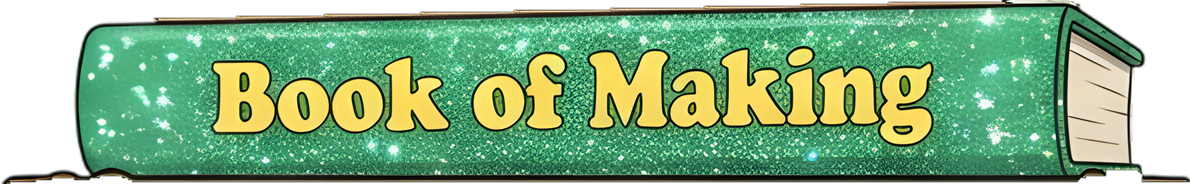
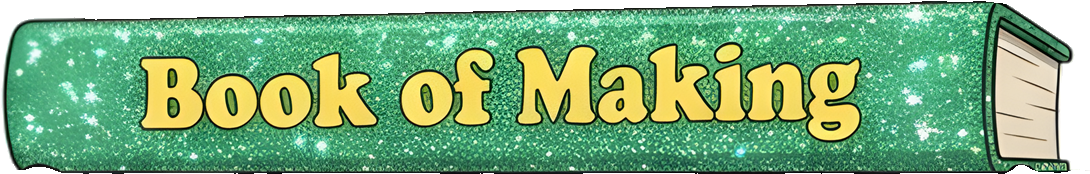
Book stack re-cut cleanly (a watershed along the outlines between books); fur covers show no edge strip as they swing; the notebook's page flags measured too; a book closes at a click anywhere outside it except on a control; My Shop lists days as "Day N" with "Day N · weekday · month" over the revie

diff --git a/js/computer.js b/js/computer.js
@@ -36,13 +36,13 @@ function focusApp(app){pcOpen=[...pcOpen.filter(a=>a!==app),app];pcOpen.forEach(
 function minApp(app){const win=winOf(app);pcMin.add(app);renderPCBar();zoom(win,tbOf(app),false,()=>{if(pcMin.has(app))win.hidden=true})}
 function closeApp(app){const win=winOf(app);pcOpen=pcOpen.filter(a=>a!==app);pcMin.delete(app);renderPCBar();
   zoom(win,iconOf(app),false,()=>{if(!pcOpen.includes(app)){win.hidden=true;win.classList.remove('max');win.style.left=win.style.top=''}})}
-/* A day as the computer shows it: weekday, month and the day's number, e.g. "Tue · Dec · Day 9" (a game year is 72 days,
-   about six to a month, so the days have no date of the month). */
-const dayLabel=d=>{const c=D.cal[d-1];return c?`${c.weekday.slice(0,3)} · ${c.month.slice(0,3)} · Day ${d}`:`Day ${d}`};
+/* A day in My Shop's reviews: "Day 9 · Tuesday · December" over the list (a game year is 72 days, about six to a month, so
+   the days have no date of the month); the list of days on the left just says "Day 9". */
+const dayLabel=d=>{const c=D.cal[d-1];return c?`Day ${d} · ${c.weekday} · ${c.month}`:`Day ${d}`};
 /* The taskbar: the open apps only (pressed: the one in front), and the date in the corner. */
 function renderPCBar(){const T=today(),fest=[T.sabbat,T.named,T.event].filter(Boolean).join(', '),top=topApp();
-  $('#pcDate').innerHTML=`<b>${esc(dayLabel(S.day))}</b>${fest?`<small class="tb-fest">${esc(fest)}</small>`:''}`;
-  $('#pcDate').title=`${dayLabel(S.day)}${fest?', '+fest:''}`;
+  $('#pcDate').innerHTML=`<b>Day ${S.day}</b><small>${esc(T.weekday)}${fest?` · <span class="tb-fest">${esc(fest)}</span>`:''}</small>`;
+  $('#pcDate').title=`Day ${S.day}, ${T.weekday}${fest?', '+fest:''}`;
   $('#tbApps').innerHTML=pcOpen.map(a=>`<button class="tb-app" data-tb="${a}" aria-pressed="${a===top}" title="${PC_NAMES[a]}" aria-label="${PC_NAMES[a]}">${PC_ICONS[a]}</button>`).join('');
   [['#mailIconBadge',unreadLetters()],['#shopIconBadge',newReviews()]].forEach(([id,n])=>{const b=$(id);b.hidden=!n;b.textContent=n})}
 /* Windows move by their title bar, and a double-click on it maximises them. */
@@ -85,7 +85,7 @@ function renderShop(){const rt=rating(),days=[...new Set(S.reviews.map(r=>r.day)
       <div class="sh-brand"><img src="${ASSETS.logo}" alt=""><b>The Loveborne Witch’s Emporium</b></div>
       <div class="sh-rating"><div class="sh-big">${rt.toFixed(1)}</div><div class="sh-stars">${stars(Math.round(rt))}</div>
         <small class="muted">${S.hist.length?`Average of the last ${S.hist.length} of up to 20 reviews`:'No reviews yet'}</small></div>
-      <nav class="sh-days" aria-label="Days">${[0,...days].map(d=>`<button data-rday="${d}" aria-pressed="${d===reviewDay}">${d?esc(dayLabel(d)):'All days'}<span class="muted">${count(d)}</span></button>`).join('')}</nav>
+      <nav class="sh-days" aria-label="Days">${[0,...days].map(d=>`<button data-rday="${d}" aria-pressed="${d===reviewDay}">${d?`Day ${d}`:'All days'}<span class="muted">${count(d)}</span></button>`).join('')}</nav>
     </aside>
     <div class="sh-list">${shown||'<p class="muted sh-empty">No reviews yet. Customers leave their reviews when the shop closes for the night.</p>'}</div>`}
 

diff --git a/js/scene.js b/js/scene.js
@@ -6,10 +6,11 @@ const newReviews=()=>Math.max(0,S.reviews.length-S.reviewsSeen);
 function renderBadge(){const n=unreadLetters()+newReviews(),bd=$('#booksBadge');bd.hidden=!n;bd.textContent=n;$('#pcBtn').setAttribute('aria-label',n?`Computer: ${n} new`:'Computer')}
 /* ---------- the shop scene: every counter object is a button ---------- */
 
-/* The book stack: each book cut from the stack picture along its drawn outline (659x672): left, top, width in that frame. */
-const STACK=[['Recipe Book','book-recipe-book',78,0,508],['Book of Making','book-book-of-making',35,75,595],['Grimoire of Craft','book-grimoire-of-craft',6,155,653],
-  ['Almanac of Sky & Seasons','book-almanac-of-sky-seasons',0,235,659],['Tarot Companion','book-tarot-companion',6,320,616],['Gentle Bestiary','book-gentle-bestiary',20,380,629],
-  ['Crystal Almanac','book-crystal-almanac',19,433,637],['Herbiary','book-herbiary',19,494,631]];
+/* The book stack: each book cut from the stack picture along its drawn outline (a watershed from points inside each book,
+   so every cut follows the darkest line between two books) (659x672): left, top, width in that frame. */
+const STACK=[['Recipe Book','book-recipe-book',79,0,528],['Book of Making','book-book-of-making',71,77,545],['Grimoire of Craft','book-grimoire-of-craft',29,159,603],
+  ['Almanac of Sky & Seasons','book-almanac-of-sky-seasons',0,229,659],['Tarot Companion','book-tarot-companion',37,330,580],['Gentle Bestiary','book-gentle-bestiary',20,362,630],
+  ['Crystal Almanac','book-crystal-almanac',19,429,637],['Herbiary','book-herbiary',32,514,611]];
 function buildScene(){
   document.querySelectorAll('#scene img[data-img]').forEach(i=>i.src=ASSETS.objects[i.dataset.img]);
   const stack=STACK.map(([b,img,x,y,w])=>`<button data-openbook="${esc(b)}" aria-label="Open the ${esc(b)}" style="left:${x/659*100}%;top:${y/672*100}%;width:${w/659*100}%"><img src="${ASSETS.objects[img]}" alt=""></button>`).join('');

diff --git a/js/books.js b/js/books.js
@@ -107,8 +107,8 @@ function setArt(){const a=ASSETS.books[curBook],tome=$('#tome'),img=$('#spreadIm
   const fl=a.flags||[[0,a.page[1]/2,a.page[1]],[0,a.page[1]/2,a.page[1]]];['l','r'].forEach((s,k)=>['c','s','p'].forEach((v,i)=>tome.style.setProperty(`--f${s}${v}`,fl[k][i]+'%')));
   const [front,back,side]=$('#cover').children;
   /* the cover's edge, seen as it swings: the fur's colour, or the cover picture squeezed into a strip */
-  /* a fur cover's edge is its core colour, kept inside the fur (as the core is on the front) so no solid bar sticks out past the fur tips */
-  side.style.background=a.core?`linear-gradient(${a.core},${a.core}) center/100% 93% no-repeat`:(a.cover?`url("${a.cover}") center/600% 100%`:a.color||'#5A3A28');back.style.backgroundImage=a.open?`url("${a.open}")`:'';back.classList.toggle('drawn',!a.open);
+  /* a fur cover shows no edge as it swings: any solid strip there sticks out past the fur tips */
+  side.style.display=a.core?'none':'';side.style.background=a.core?'':(a.cover?`url("${a.cover}") center/600% 100%`:a.color||'#5A3A28');back.style.backgroundImage=a.open?`url("${a.open}")`:'';back.classList.toggle('drawn',!a.open);
   if(a.cover){front.style.background=a.core?`url("${a.cover}") center/100% 100% no-repeat,linear-gradient(${a.core},${a.core}) center/90% 93% no-repeat`:'';
     if(!a.core)front.style.backgroundImage=`url("${a.cover}")`;front.innerHTML='';front.className='face front'}
   else{front.style.backgroundImage='';front.style.background=a.color;front.style.color=a.ink;front.className='face front plain';front.innerHTML=`<span>${esc(curBook)}</span>`}

diff --git a/js/config.js b/js/config.js
@@ -89,7 +89,7 @@ const ASSETS = {
     'Crystal Almanac':          {cover:'assets/books/crystal-almanac-cover.png',        open:'assets/books/crystal-almanac-open.png',        paper:'#F4F4E4', page:[1.5,3.7,3], flags:[[0.05,2.1,3.7],[0.05,2.15,3.85]]},
     'Gentle Bestiary':          {cover:'assets/books/gentle-bestiary-cover.png',        open:'assets/books/gentle-bestiary-open.png',        paper:'#F8F8E6', core:'#CDAB8C', page:[7.2,6.6,8], flags:[[0.8,6,7.5],[1.25,6.05,7.65]]},
     /* the notebook on the counter: no cover, it opens straight onto its ruled pages (see DIARY in books.js) */
-    'My notes':                 {cover:'', open:'assets/books/diary-open.png', paper:'#F4F7E6', page:[2,3.7,3.2]}
+    'My notes':                 {cover:'', open:'assets/books/diary-open.png', paper:'#F4F7E6', page:[2,3.7,3.2], flags:[[0,1.95,3.55],[0,1.95,3.65]]}
   },
   /* Customers who stand behind the counter, by the name used in story.js.
      Anyone not listed here (most walk-ins, Hester, Sam Okafor for now) is not drawn. */

diff --git a/js/actions.js b/js/actions.js
@@ -44,7 +44,8 @@ document.addEventListener('click',e=>{if(e.target.closest('#receiptsView')){$('#
 document.addEventListener('click',e=>{const t=e.target,path=e.composedPath(),inside=id=>path.some(n=>n.id===id);
   if(t.id==='info')$('#info').classList.remove('open');
   if(t.id==='pc')closePC();
-  if(t.matches('#books, #books .bookmain, #books .tomewrap, #books .bookbar')){$('#books').classList.remove('open');render()}
+  /* a book closes at a click anywhere outside it (the bookmarks and word bank columns too), except on a control */
+  if(inside('books')&&!path.some(n=>n.matches?.('.tome, button, input, select, textarea, a'))){$('#books').classList.remove('open');render()}
   if(t.id==='dayEnd')$('#dayGo')?.click();  /* the day's summary has one way out: on to the next day */
   const fx=$('#mailFx');if(!fx.hidden&&Date.now()-(+fx.dataset.at||0)>400&&!t.closest('.mailcard'))fx.hidden=true;
   if(openShelf&&!inside('shelfOpen')&&!t.closest('[data-shelf]')){openShelf='';renderShelves()}
